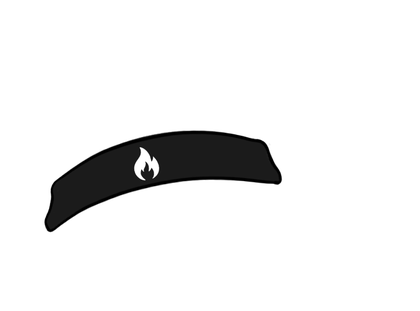
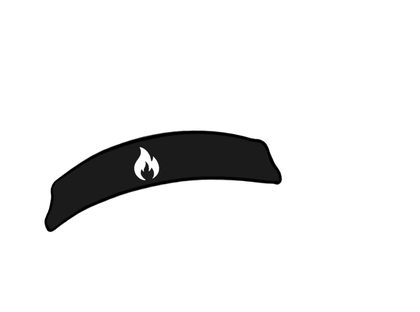
Bêta : en-tête de la carte des charges, verdict vert avec icône, retour de défilement doublé, poussin repos sans bandeau

diff --git a/beta/index.html b/beta/index.html
@@ -169,8 +169,10 @@
     font-size:13px; line-height:1.4;}
   .prg-verdict b{font-weight:800; color:var(--ink);}
   .prg-verdict span{font-size:11.5px; color:var(--ink-mute);}
-  .prg-verdict.haut{background:rgba(90,160,80,.14);}
-  .prg-verdict.haut b{color:var(--good);}
+  .prg-verdict.haut{background:rgba(46,158,79,.12); align-items:center; gap:12px; padding:12px 14px; border-radius:14px;}
+  .prg-verdict.haut .ic{flex:none; width:44px; height:44px; border-radius:50%; background:rgba(46,158,79,.18); display:flex; align-items:center; justify-content:center; font-size:20px;}
+  .prg-verdict.haut .grow{display:flex; flex-direction:column; gap:2px;}
+  .prg-verdict.haut b{color:#2e9e4f; font-size:15px;} .prg-verdict.haut span{font-size:13px; color:#2e9e4f;}
   .prg-verdict.bas b{color:var(--accent);}
   .ob-steps{display:flex; gap:5px; margin-bottom:10px;}
   .ob-steps i{flex:1; height:4px; border-radius:2px; background:var(--surface2); transition:background .3s;}
@@ -2181,6 +2183,7 @@
   .pt-card{padding:16px 14px 14px;}
   .pt-tete{display:flex; align-items:flex-start; gap:12px; margin-bottom:18px;}
   .pt-ic{flex:none; width:52px; height:52px; border-radius:14px; background:rgba(245,130,32,.14); color:var(--accent); display:flex; align-items:center; justify-content:center;}
+  .pt-ic > svg{width:26px; height:26px;}
   .pt-t{font-size:22px; font-weight:800; letter-spacing:-.02em; line-height:1.1;}
   .pt-obj{font-size:14px; color:var(--ink-soft); margin-top:3px; white-space:nowrap;} .pt-obj b{color:var(--accent); font-size:16px;}
   .pt-quota{flex:none; font-size:11.5px; font-weight:800; white-space:nowrap; padding:7px 10px; border-radius:99px; background:rgba(245,130,32,.14); color:var(--accent); margin-top:2px;}
@@ -4040,7 +4043,7 @@ const TRAD = {en:{
   "Une séance est en cours":"A workout is in progress",
   "Reprends-la où tu l'as laissée, ou termine-la.":"Pick it up where you left it, or finish it.",
   "Ta séance du jour t'attend.":"Today's workout is waiting.",
-  "version du":"build of", "À débloquer":"Locked", "Personnalise ton compagnon d'entraînement !":"Customise your training buddy!", "{} séance":"{} workout",
+  "version du":"build of", "Suis tes progrès et dépasse tes limites !":"Track your progress and push your limits!", "Tu es à ton meilleur niveau !":"You're at your best!", "Continue comme ça !":"Keep it up!", "À débloquer":"Locked", "Personnalise ton compagnon d'entraînement !":"Customise your training buddy!", "{} séance":"{} workout",
   "semaines d'affilée":"weeks in a row", "au mieux":"at best", "Gagne des accessoires en restant régulier !":"Earn accessories by staying consistent!", "Encore <b>{}</b> avant ton objectif !":"<b>{}</b> to go before your goal!", "Ma photo":"My photo", "Photo illisible.":"Unreadable photo.", "En route vers mes objectifs !":"On the way to my goals!", "Discipline aujourd'hui":"Discipline today", "Résultats demain":"Results tomorrow", "Mon avatar":"My avatar", "Personnaliser mon avatar":"Customise my avatar", "Accessoires":"Accessories", "Rares":"Rare",
   "Chaque séance compte. Touche un accessoire gagné pour le mettre ou l'enlever.":"Every workout counts. Tap an earned accessory to put it on or take it off.",
   "Pour la régularité : la meilleure série de semaines d'affilée, jamais perdue.":"For consistency: your best run of weeks in a row, never lost.",
@@ -8760,7 +8763,7 @@ const EXO_DEMO = {
 /* Le poussin, la mascotte : une pose par etat, des accessoires en calques. Table
    reecrite par C:\Projets\outils\poussin.py depuis C:\Projets\APP\Avatar. */
 const POUSSIN = {
-  "repos":{ratio:0.74, acc:["bandeau"]}
+  "repos":{ratio:0.743, acc:["bandeau"]}
 };
 /* Les accessoires : ce qui se gagne, et comment. Les courants avec le nombre de
    seances (un total, jamais perdu) ; les rares avec la MEILLEURE serie de semaines
@@ -8925,7 +8928,7 @@ function exIcon(ex, sm){
 }
 
 const KEY="tonnage_v1";
-const BUILD = "21 septembre 2026 17h50 · bêta";   /* remplacé par build.ps1 : date et heure de la construction */
+const BUILD = "21 septembre 2026 18h04 · bêta";   /* remplacé par build.ps1 : date et heure de la construction */
 
 const MARK = "tonnage_marker";
 /* diagnostic : que survit-il entre deux ouvertures ? */
@@ -10355,7 +10358,14 @@ function animerChiffres(){
 }
 let gardeDefilement = false, posDefilement = 0;
 /* redessine sans faire remonter la page (cases à cocher, aliments…) */
-function renderSurPlace(){ posDefilement = window.scrollY; gardeDefilement = true; render(); }
+function renderSurPlace(){
+  posDefilement = window.scrollY || document.documentElement.scrollTop || 0;
+  gardeDefilement = true; render();
+  /* sur certains telephones la page se recale apres coup (images, graphiques) : on
+     remet la position une seconde fois, une fois la mise en page posee */
+  const y = posDefilement;
+  requestAnimationFrame(()=>window.scrollTo(0, y)); setTimeout(()=>window.scrollTo(0, y), 60);
+}
 
 /* ================= MODAL ================= */
 const overlay = document.getElementById("overlay");
@@ -19685,8 +19695,12 @@ function renderProgress(app){
 
   body.innerHTML = `
     <div class="card" style="margin-top:14px;">
-      <div class="card-t" style="margin-bottom:10px;">${icoTitre(IC_COURBE)}${
-        isoPrg? TR("Évolution de la durée") : (enReps? TR("Évolution des répétitions") : TR("Évolution des charges"))}</div>
+      <div class="pt-tete" style="margin-bottom:12px;">
+        <span class="pt-ic">${IC_COURBE}</span>
+        <div class="grow"><div class="pt-t">${
+          isoPrg? TR("Évolution de la durée") : (enReps? TR("Évolution des répétitions") : TR("Évolution des charges"))}</div>
+          <div class="pt-obj">${TR("Suis tes progrès et dépasse tes limites !")}</div></div>
+      </div>
       <select id="prg-sel" style="margin-bottom:12px;">${exIds.map(id=>`<option value="${id}" ${id===prgEx?"selected":""}>${esc(getEx(id).name)}</option>`).join("")}</select>
       ${deuxModes? `<div class="chips" style="margin-bottom:8px;">
         <button class="chip chip-sm ${mode==="avec"?"on":""}" data-lest="avec">${TR("Avec lest")}</button>
@@ -19757,7 +19771,7 @@ function renderProgress(app){
     verdict.innerHTML = pts.length < 2
       ? `<span>${TR("Une seule séance pour l'instant : la courbe démarrera à la prochaine.")}</span>`
       : (ecart <= 0
-        ? `<b>${TR("Tu es à ton meilleur niveau.")}</b>`
+        ? `<span class="ic">🏆</span><span class="grow"><b>${TR("Tu es à ton meilleur niveau !")}</b><span>${TR("Continue comme ça !")}</span></span>`
         : `<b>${TR("{e} {u} sous ton record").replace("{e}", nb(ecart)).replace("{u}", unit)}</b>${
             dateRec ? `<span>${TR("établi le {}").replace("{}", dateRec)}</span>` : ""}`);
   }

diff --git a/beta/sw.js b/beta/sw.js
@@ -1,5 +1,5 @@
 /* Tonnup — service worker : l'app marche hors ligne et se met à jour toute seule. */
-const CACHE = "tonnup-beta-v10-20260921-1750";
+const CACHE = "tonnup-beta-v10-20260921-1804";
 const ASSETS = ["./", "./index.html", "./manifest.webmanifest", "./confidentialite.html", "./conditions.html", "./icon-192.png", "./icon-512.png", "./apple-touch-icon.png",
   "./img/exos/abducteurs.png",
   "./img/exos/abduction-hanche.png",
